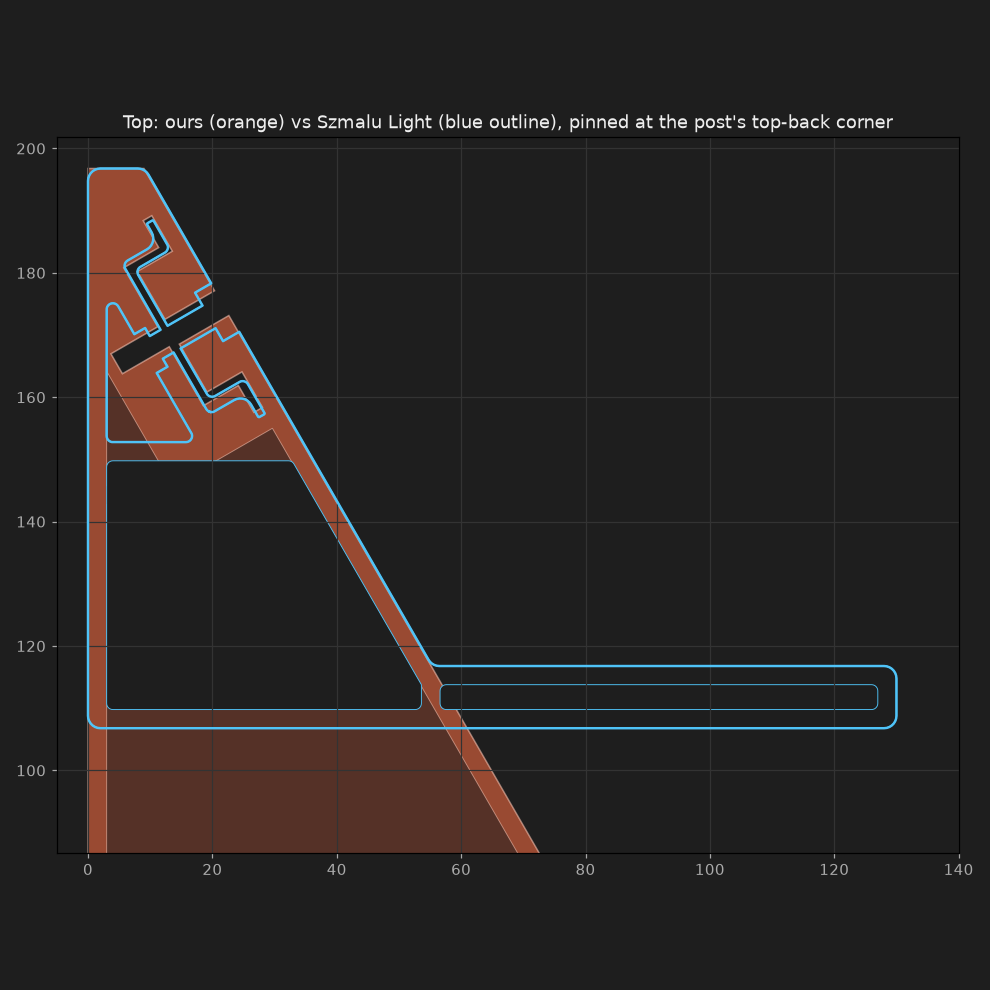
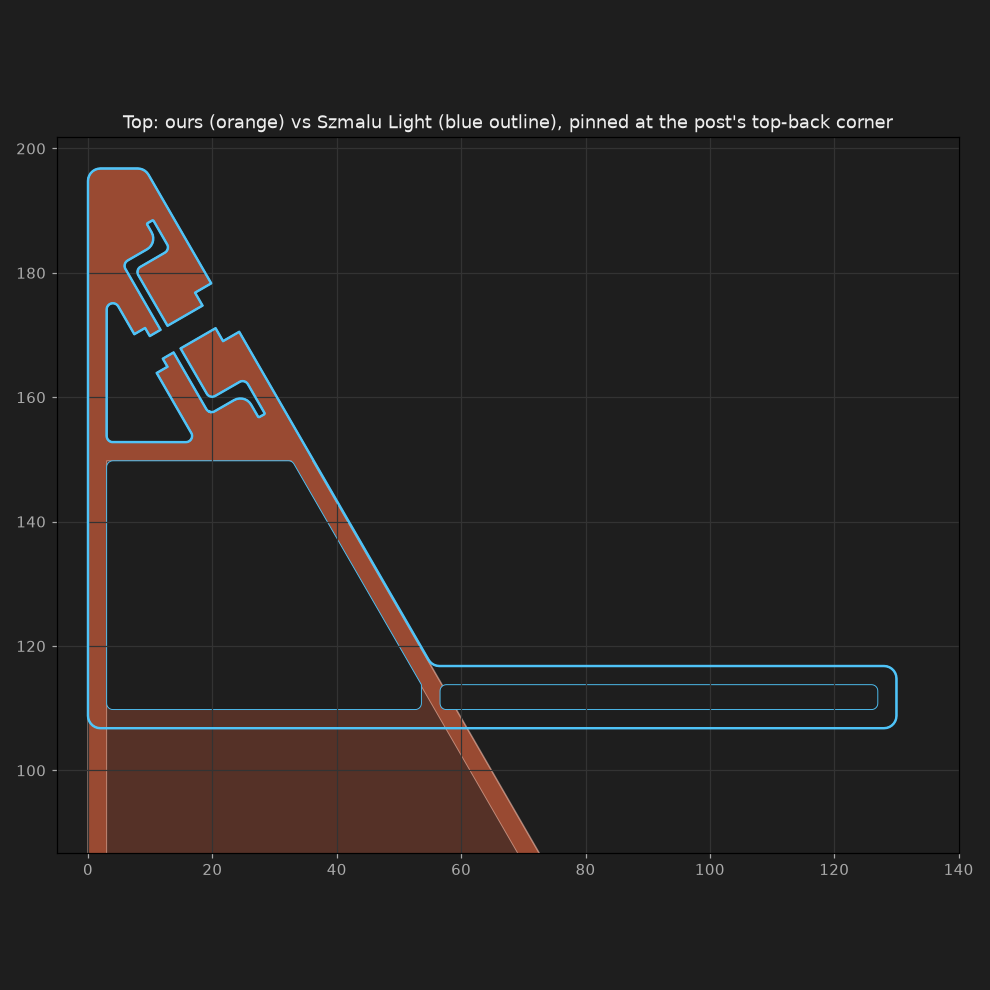
din-rail-bench-stand (WIP): top identical to the original; Szmalu's Light profile above the crossbar's bottom is cut from its mesh (szmalu_top.scad, CC BY-NC) and used as is; a test probes it point for point; the top rail is held by the original's clamp, not our block and screw. Back rail clash with

Changed region(s): [[0.0909, 0.2727, 0.303, 0.4848], [0.1212, 0.2424, 0.1818, 0.2727]]

diff --git a/projects/din-rail-bench-stand/test_model_scad.py b/projects/din-rail-bench-stand/test_model_scad.py
@@ -3,6 +3,7 @@
 The bracket prints flat: its profile is in XY (x toward the desk's front, y up in use), extruded bracket_t in Z.
 """
 
+import json
 import math
 import re
 from pathlib import Path
@@ -10,6 +11,7 @@ from pathlib import Path
 import numpy as np
 import pytest
 import trimesh
+from shapely import affinity
 from shapely.geometry import Point, Polygon
 from shop.scad import build_scad, find_openscad
 from shop.testing import ray_hits
@@ -47,6 +49,7 @@ def local(c, out, x, y):
 
 def solid(bracket, pt):
     return len(ray_hits(bracket, (pt[0], pt[1], T + 5), (0, 0, -1))) > 0
+OWN = [SEATS[0], SEATS[2], SEATS[3]]   # the top rail is held by the original's top, not our block
 DEPTHS = [P["mod_d"]] * 3 + [P["back_mod_d"]]
 
 
@@ -66,13 +69,17 @@ def test_bounds(bracket):
 
 
 def test_top_is_the_originals(bracket):
-    # as Szmalu's: a solid 3 mm post, flat on top, flush with the top rail block; the face's outer line meets the
-    # flat top top_in forward of the post's back; a 3 mm crossbar whose top meets the top block's bottom
-    assert solid(bracket, (S / 2, TOP_Y / 2)) and not solid(bracket, (S + 0.5, TOP_Y / 2))
-    assert solid(bracket, (P["top_in"] - 0.5, TOP_Y - 0.5)) and not solid(bracket, (P["top_in"] + 1.5, TOP_Y - 0.5))
-    c2 = SEATS[1][0]
-    low = local(c2, N, 17.5 + P["block_wall"], -W)[1]
-    assert solid(bracket, (S + 5, low - S / 2)) and not solid(bracket, (S + 5, low - S - 0.5))
+    # above the crossbar's bottom the profile is Szmalu's, point for point (szmalu_top.scad, cut from its mesh)
+    src = (HERE / "szmalu_top.scad").read_text()
+    cut = float(re.search(r"szmalu_top_cut = ([\d.]+);", src).group(1))
+    pts = json.loads(re.search(r"points = (\[\[.*?\]\])", src).group(1))
+    paths = json.loads(re.search(r"paths = (\[\[.*?\]\])", src).group(1))
+    orig = Polygon([pts[i] for i in paths[0]], [[pts[i] for i in r] for r in paths[1:]])
+    orig = affinity.translate(orig, 0, TOP_Y)
+    grid = [(x, y) for x in np.arange(-0.5, 40, 1.0) for y in np.arange(TOP_Y - cut + 0.5, TOP_Y + 1, 1.0)]
+    grid = [q for q in grid if orig.exterior.distance(Point(q)) > 0.2]   # away from the outline, where facets round
+    wrong = [q for q in grid if solid(bracket, q) != orig.contains(Point(q))]
+    assert not wrong, wrong[:5]
 
 
 def test_diagonal_joins_the_tier_1_block_below_the_rail_centre(bracket):
@@ -103,7 +110,7 @@ def test_each_rail_passes_through_and_is_held_between_flat_faces(bracket):
     # the rail's own section is open plastic-free through the plate; a millimetre past the slot either side of the
     # base, and over the lips, is plastic: the rail sits between flat faces, closed round by the block
     rail = Polygon(RAIL).buffer(-0.1)
-    for c, out in SEATS:
+    for c, out in OWN:
         x0, y0, x1, y1 = rail.bounds
         pts = [(x, y) for x in np.arange(x0, x1, 0.5) for y in np.arange(y0, y1, 0.25) if rail.contains(Point(x, y))]
         hit = [p for p in pts if solid(bracket, local(c, out, *p))]
@@ -118,7 +125,7 @@ def test_each_rail_passes_through_and_is_held_between_flat_faces(bracket):
 
 
 def test_screw_hole_runs_through_the_cover_and_rail_base_into_a_pilot(bracket):
-    for c, out in SEATS:
+    for c, out in OWN:
         o = local(c, out, 0, 7.5 + P["cover"] + 5)
         h = ray_hits(bracket, (o[0], o[1], T / 2), (-out[0], -out[1], 0))
         assert len(h), "the screw hole has no bottom"

diff --git a/projects/din-rail-bench-stand/README.md b/projects/din-rail-bench-stand/README.md
@@ -9,7 +9,7 @@ two across the sloped face, one flat on the foot in front, and one flat at the b
 
 The construction is Szmalu's [DIN Rail Stand KIT](https://www.thingiverse.com/thing:3609072) (CC BY-NC), which holds one rail:
 an A-frame end bracket, a thick plate of thin ladder bars, the rail passing through a slot of its own section.
-Nothing of its mesh is used; this one is scaled up to hold four rails.
+Its top, above the crossbar, is the original's profile cut from its mesh and used as is (`szmalu_top.scad`, CC BY-NC, attribution above); below that, this one is scaled up to hold four rails.
 
 Prototype, not printed. Nothing here is measured.
 
